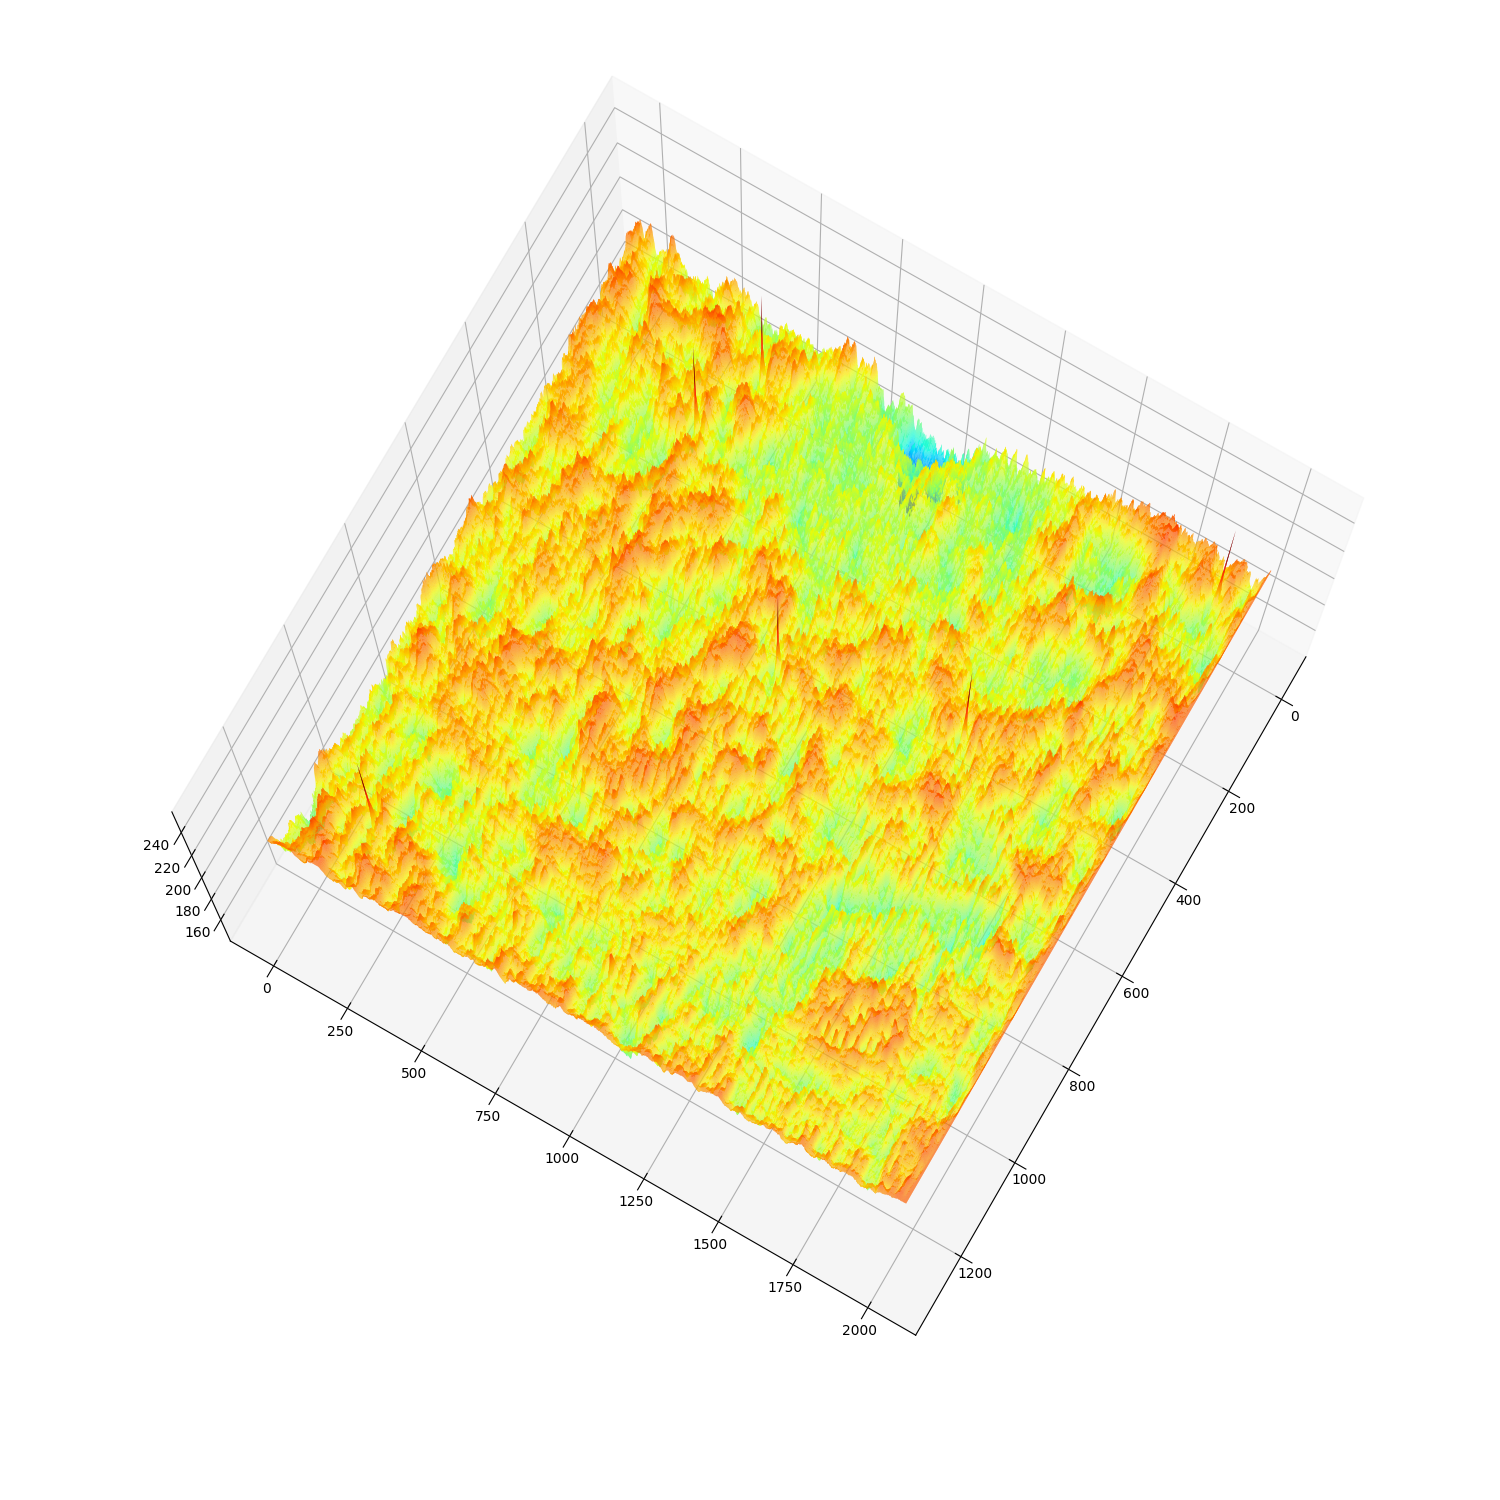
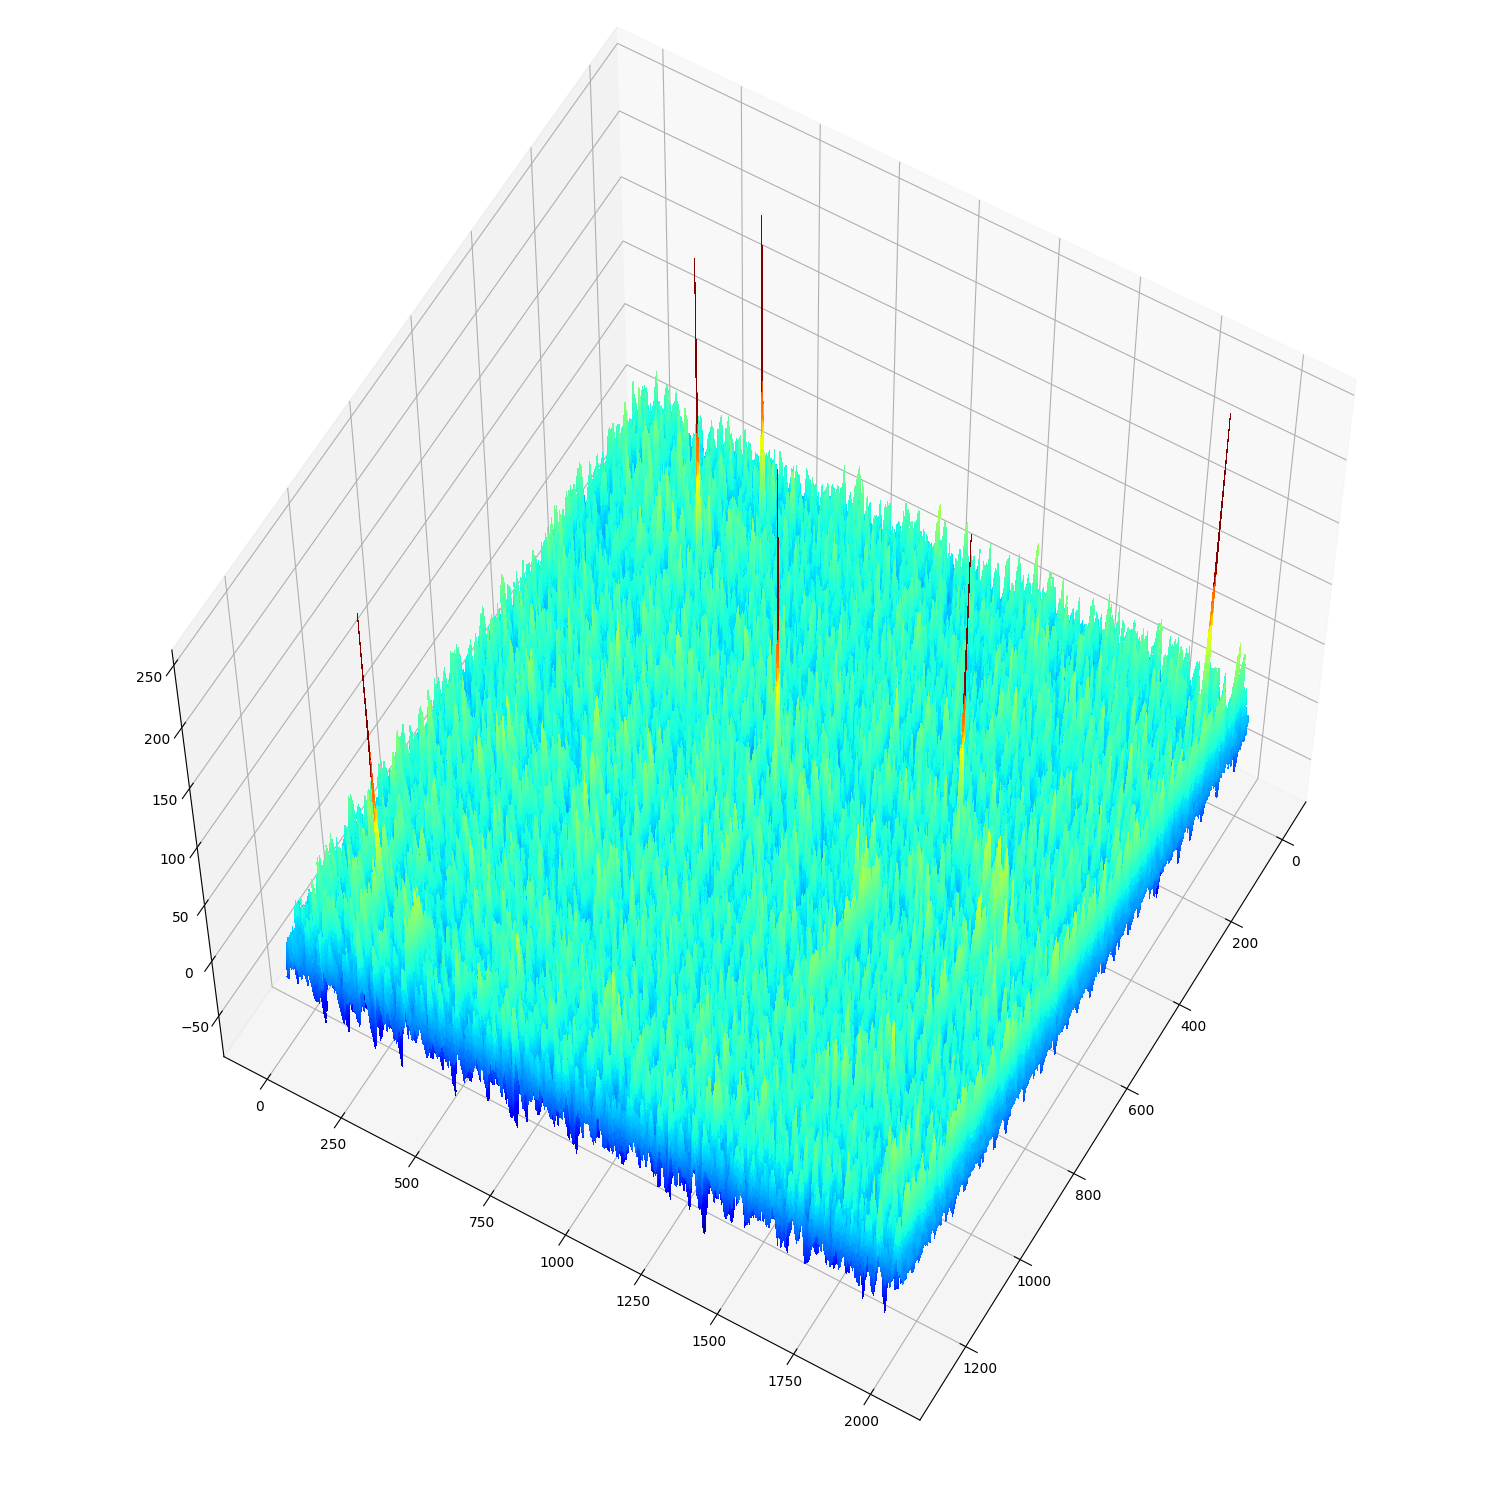
Final Code

diff --git a/main.py b/main.py
@@ -5,10 +5,13 @@ import fire
 import matplotlib.pyplot as plt
 from mpl_toolkits.mplot3d import Axes3D
 
-DIR = 'wally22'
+# The name of the image file
+DIR = 'wally2'
 
 # Load the Waldo and puzzle images
+# Waldo's picture direction path
 waldo = cv2.imread('Images/wally2_1.jpg')
+# Puzzle image direction path
 puzzle = cv2.imread('Images/'+ DIR + '.jpg')
 
 # Get the shape of Waldo's face image
@@ -16,7 +19,7 @@ puzzle = cv2.imread('Images/'+ DIR + '.jpg')
 
 # Find Waldo in the puzzle
 # cv2.TM_CCORR_NORMED is the cross-correlation normalized between the two images
-result = cv2.matchTemplate(puzzle, waldo, cv2.TM_CCORR_NORMED)
+result = cv2.matchTemplate(puzzle, waldo, cv2.TM_CCOEFF_NORMED)
 
 # Set the threshold for find all the local max of the result
 threshold = 0.9
@@ -31,24 +34,27 @@ loc = np.where( result >= threshold)
 for pixel in zip(*loc[::-1]):
     cv2.rectangle(puzzle, pixel, (pixel[0] + waldoWidth, pixel[1] + waldoHeight), (0, 0, 0), 2)
 
-# Display result matrix of cross-correlation in 3 dimensions
-'''plt.figure(1)
-result_gray = result*255
-xx, yy = np.mgrid[0:result_gray.shape[0], 0:result_gray.shape[1]]
-fig = plt.figure(figsize=(15, 15))
-ax = fig.gca(projection='3d')
-ax.plot_surface(xx, yy, result_gray, rstride=1, cstride=1, cmap='jet',linewidth=2)
-ax.view_init(80, 30)
-plt.show()'''
-
 # Saving image
 #cv2.imwrite('Result Images/' + DIR + '_1.jpg', puzzle)
 
 # Display the result of the Where is Waldo? problem
-'''plt.figure(2)
+'''plt.figure(1)
 plt.imshow(cv2.cvtColor(puzzle, cv2.COLOR_BGR2RGB))
 plt.show()'''
 
+
+# Display result matrix of cross-correlation in 3 dimensions
+plt.figure(2)
+result_gray = result*255
+xx, yy = np.mgrid[0:result_gray.shape[0], 0:result_gray.shape[1]]
+fig = plt.figure(figsize=(15, 15))
+ax = fig.gca(projection='3d')
+ax.plot_surface(xx, yy, result_gray, rstride=1, cstride=1, cmap='jet', linewidth=2, antialiased=False)
+ax.view_init(60, 30)
+plt.show()
+
+
+# Display the result of the Where is Waldo? problem
 cv2.namedWindow('Where is Waldo', cv2.WINDOW_NORMAL)
 cv2.resizeWindow('Where is Waldo', 800, 600)
 cv2.imshow('Where is Waldo', puzzle)
